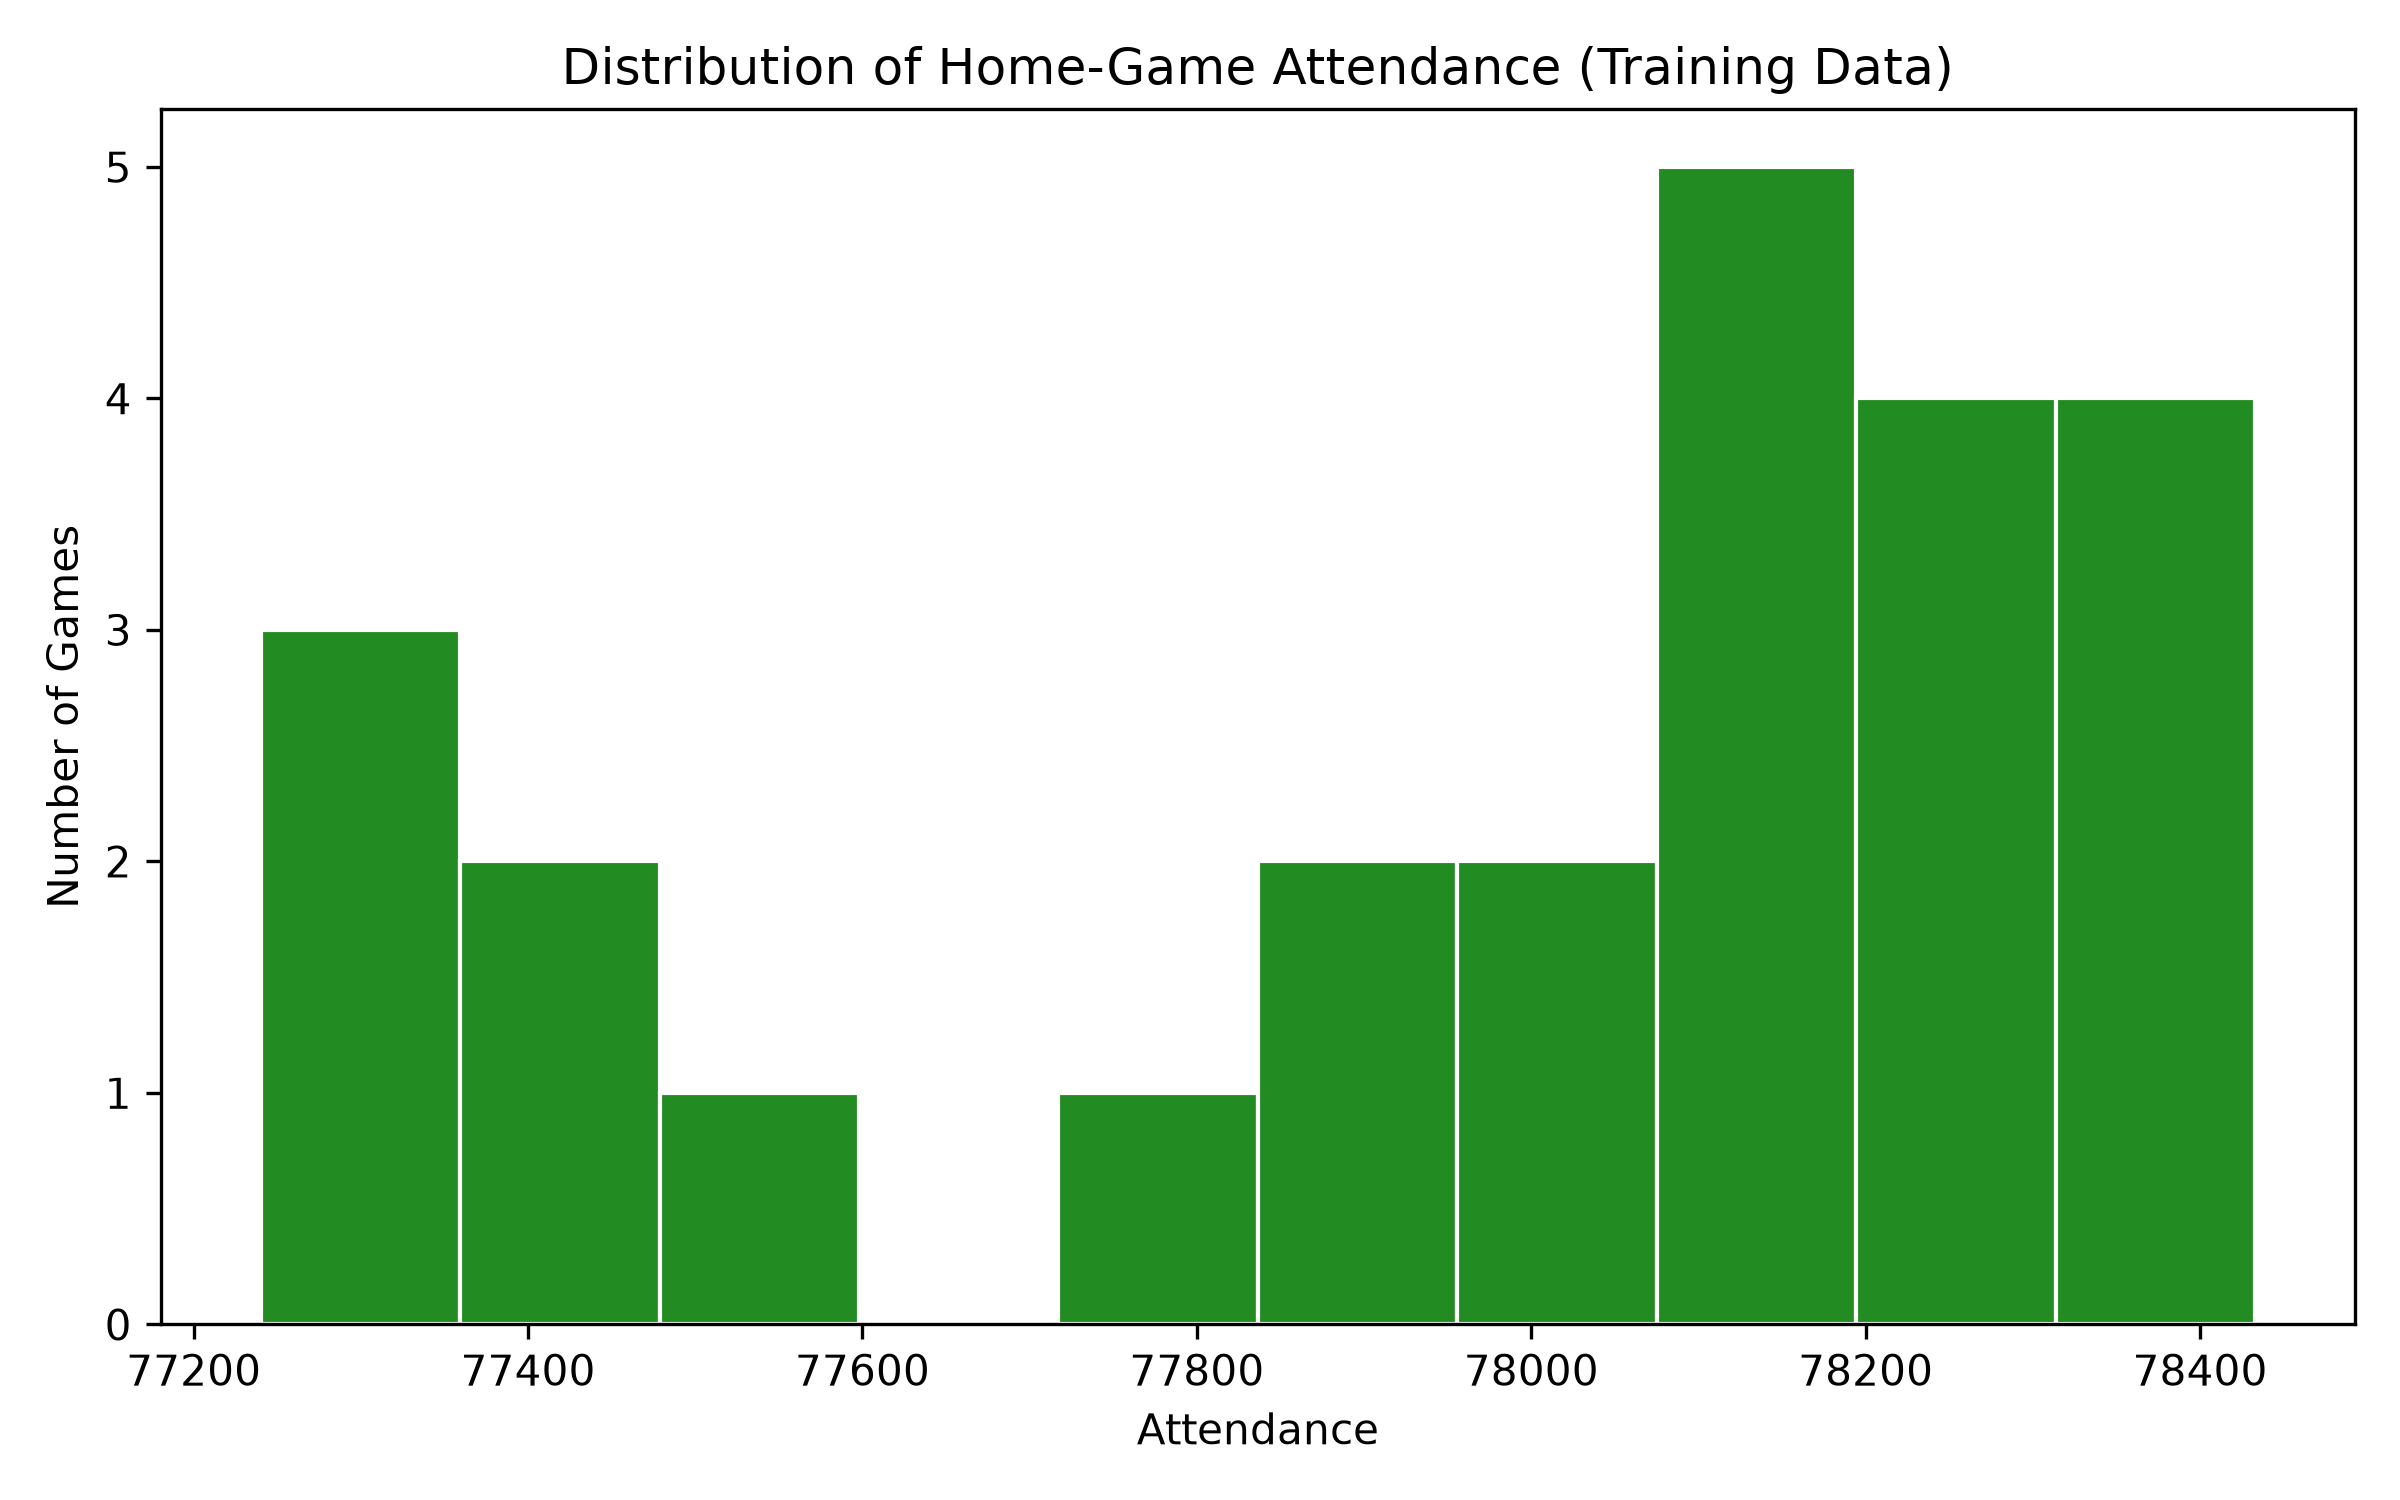
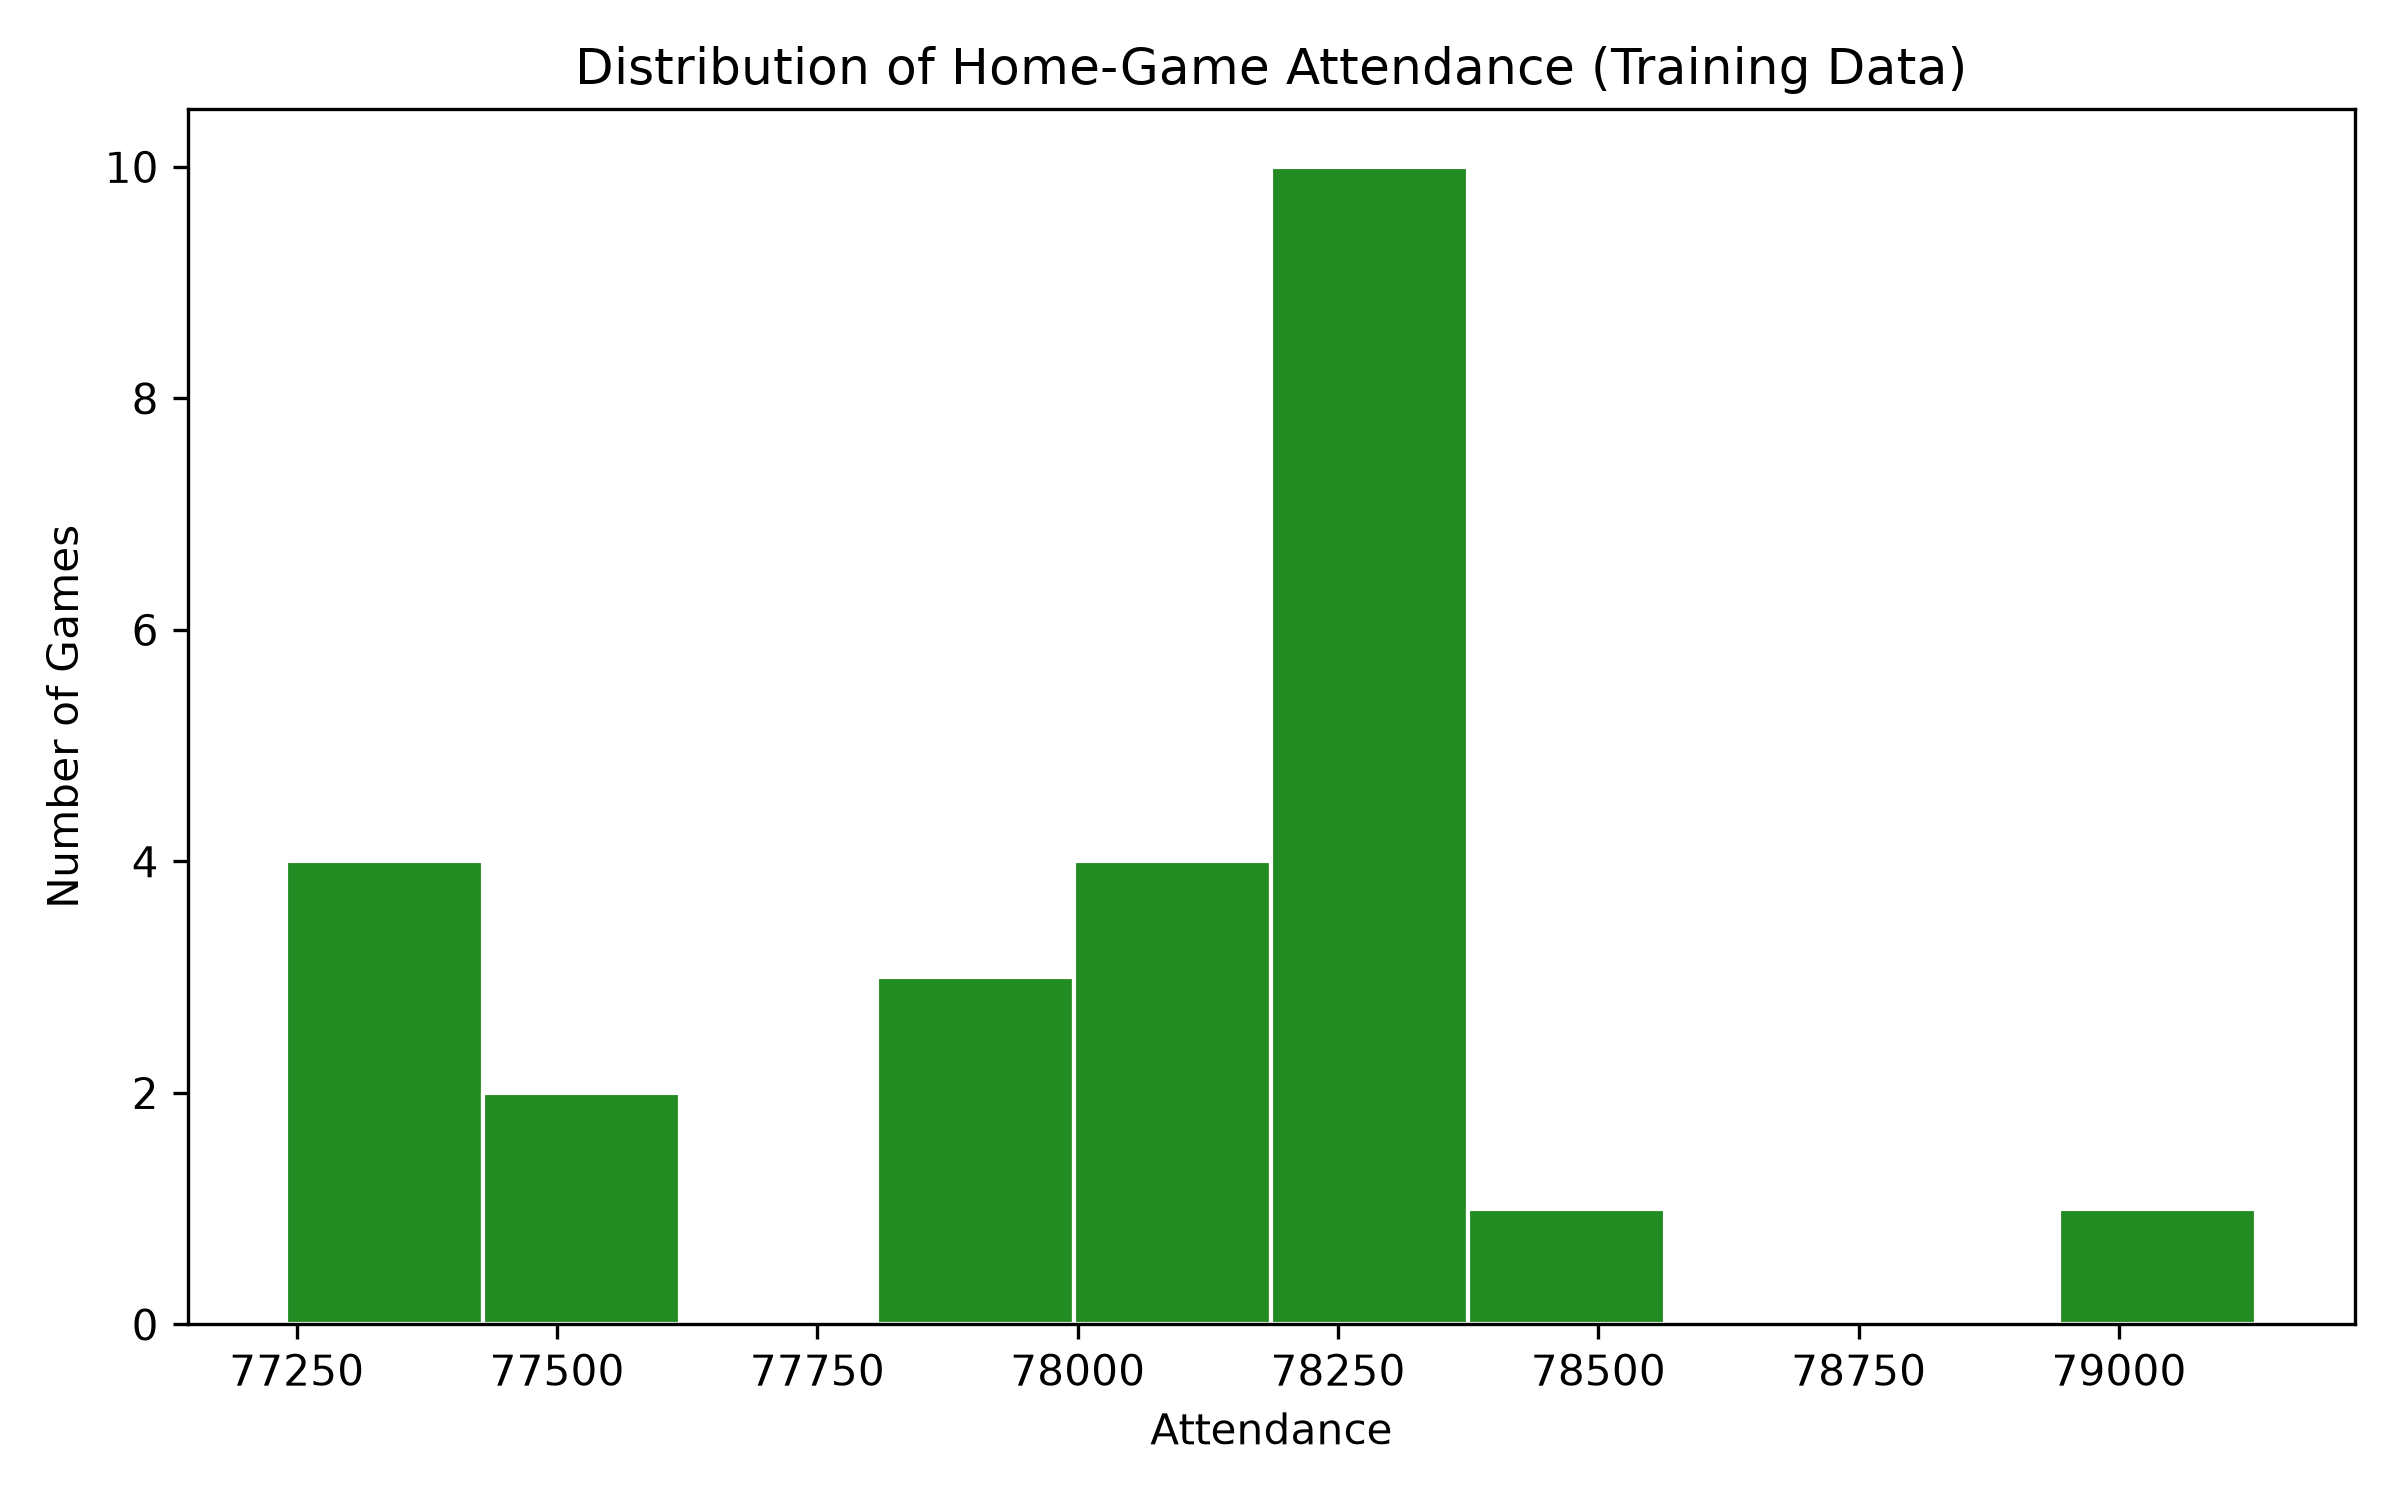
train validate and test models; update model_report

diff --git a/model/model.py b/model/model.py
@@ -8,8 +8,7 @@ from sklearn.linear_model import LinearRegression
 from sklearn.metrics import mean_absolute_error
 from sklearn.neighbors import KNeighborsRegressor
 from sklearn.preprocessing import StandardScaler
-from sklearn.neural_network import MLPRegressor
-from sklearn.model_selection import GridSearchCV
+from sklearn.ensemble import RandomForestRegressor
 
 FIGURE_DIR = Path("docs/figures")
 FIGURE_DIR.mkdir(parents=True, exist_ok=True)
@@ -27,9 +26,10 @@ connection = psycopg2.connect(**DB_CONFIG)
 # Use the project's existing database settings in .env.
 
 # Read the saved split assignments from Postgres.
-with connection.cursor() as cur:
-    cur.execute("SELECT * FROM ml_feature ORDER BY date_id, game_id;")
-    df = pd.DataFrame(cur.fetchall(), columns=[column[0] for column in cur.description])
+cur = connection.cursor()
+
+cur.execute("SELECT * FROM ml_feature ORDER BY date_id, game_id;")
+df = pd.DataFrame(cur.fetchall(), columns=[column[0] for column in cur.description])
 connection.close()
 
 train = df[df["split"] == "train"]
@@ -39,13 +39,6 @@ test = df[df["split"] == "test"]
 print(f"Train rows: {len(train)}")
 print(f"Validate rows: {len(validate)}")
 print(f"Test rows: {len(test)}")
-
-# Convert Postgres numeric values to a numeric pandas type
-train = train.copy()
-train["win_pct_before_game"] = pd.to_numeric(train["win_pct_before_game"])
-
-# Exclude the London game because it was played outside Lambeau Field
-train = train[train["game_id"] != "2022_05_NYG_GB"].copy()
 
 # Chart 1: Distribution of attendance
 plt.figure(figsize=(8, 5))
@@ -124,30 +117,26 @@ y_pred_validate = linear_regression.predict(x_validate)
 validation_mae = mean_absolute_error(y_validate, y_pred_validate)
 results.append({"Model": "Linear Regression", "Validation MAE": validation_mae})
 
+
+# Train a random forest; limit tree size because the dataset is small
+random_forest = RandomForestRegressor(
+    n_estimators=300,
+    max_depth=3,
+    min_samples_leaf=3,
+    random_state=my_random_seed
+)
+
+random_forest.fit(x_train, y_train)
+y_pred_validate = random_forest.predict(x_validate)
+validation_mae = mean_absolute_error(y_validate, y_pred_validate)
+results.append({"Model": "Random Forest Regression", "Validation MAE": validation_mae})
+
 # Scale features
 standard_scaler = StandardScaler()
 standard_scaler.fit(x_train)
 x_train_scaled = standard_scaler.transform(x_train)
 x_validate_scaled = standard_scaler.transform(x_validate)
 
-#Create Neural Network and train it with hyperparameter tuning
-mlp_clf = MLPRegressor(random_state=my_random_seed, max_iter=5000)
-
-parameter_space = {
-    "hidden_layer_sizes": [(50, 50, 50), (50, 100, 50), (100,)],
-    "activation": ["tanh", "relu"],
-    "solver": ["sgd", "adam"],
-    "alpha": [0.0001, 0.05],
-    "learning_rate": ["constant", "adaptive"]
-}
-
-clf = GridSearchCV(mlp_clf, parameter_space, cv=3, n_jobs=4)
-clf.fit(x_train_scaled, y_train)
-
-# Predict
-y_pred_test = clf.predict(x_validate_scaled)
-validation_mae = mean_absolute_error(y_validate, y_pred_test)
-results.append({"Model": "MLP regression", "Validation MAE": validation_mae})
 
 # Create a KNN model
 knn = KNeighborsRegressor(
@@ -166,8 +155,37 @@ validation_mae = mean_absolute_error(y_validate, predictions)
 results.append({"Model": "KNN regression", "Validation MAE": validation_mae})
 
 
-
 # Display one comparison table, keeping the baseline first
 comparison = pd.DataFrame(results)
-print("\nValidation results — MAE in fans; lower is better:")
+print("\nValidation results")
 print(comparison.to_string(index=False, float_format=lambda value: f"{value:,.2f}"))
+
+
+# Prepare test features using the same columns and order as training
+x_test = test.drop(columns=exclude_columns).apply(pd.to_numeric, errors="raise")
+y_test = test["attendance"].astype(float)
+
+# Score the selected model on test data once
+y_pred_test = random_forest.predict(x_test)
+test_mae = mean_absolute_error(y_test, y_pred_test)
+forest_mae = comparison.loc[comparison["Model"] == "Random Forest Regression", "Validation MAE"].values[0]
+# Compare validation and test MAE
+final_scores = pd.DataFrame({
+    "Dataset": ["Validate", "Test"],
+    "Random Forest MAE": [forest_mae, test_mae]
+})
+
+print("\nFinal random forest results")
+print(final_scores.to_string(index=False, float_format=lambda value: f"{value:,.2f}"))
+
+
+# Rank the features used to train the random forest
+feature_importance = pd.DataFrame({
+    "Feature": x_train.columns,
+    "Importance": random_forest.feature_importances_
+})
+
+top_features = feature_importance.sort_values("Importance", ascending=False).head(5)
+
+print("\nTop five random forest features")
+print(top_features.to_string(index=False, float_format=lambda value: f"{value:.4f}"))

diff --git a/docs/model_report.md b/docs/model_report.md
@@ -1,1 +1,28 @@
-![histogram of attendance](\figures\attendance-distribution.png)
+# Model Report
+
+### Figures
+
+![histogram of attendance](figures/attendance_distribution.png)
+Attendance was fairly consistent across training games, with most games drawing around 78,000–78,400 and there being 10 games with attendance around 78,250.
+
+![sctterplot of attendance vs days since last game](figures/attendance_vs_home_game_gap.png)
+There doesn't appear to be a clear relationship between attendance and days since the last home game, with attendance after long offseason breaks falling within the range seen after shorter gaps.
+
+![scatter plot of attendance vs win percentage](figures/attendance_vs_win_pct.png)
+There appears to be a slight postive relationship between games with higher prior win percentages and higher attendance.
+
+### Error Measure
+I used mean absolute error (MAE), which measures how many fans my attendance predictions were off by on average, regardless of whether they were too high or too low. For example, an MAE of 480 means the predictions differed from actual attendance by an average of 480 fans. A lower MAE indicates more accurate predictions.
+
+### Comparison Table
+![comparison table: baseline and each model, scored on validate rows](comparison_table.png)
+
+### Model Chosen
+
+I choose the Randome Forrest model as it was the only model that had a lower MAE thant he base MAE at 223.86.
+
+Its test score ended up being much higher at 351.2.
+
+### Top Features
+
+### limits

diff --git a/README.md b/README.md
@@ -23,6 +23,8 @@ One row in my ML feature table = one game
 3. Pull the data: run each script in etl/ (e.g., python etl/extract_games.py)  
 4. Build the database: run sql/schema.sql in pgAdmin or psql
 5. Confirm it worked: python db_check.py (should print all table names)
+6. Run transform.py, this filters down home games based on the stadium being greenbays lambaeu field.
+    It also deals with missing attendance, days_since last home game and win_pct_before-game
 
 ## AI Usage
 
